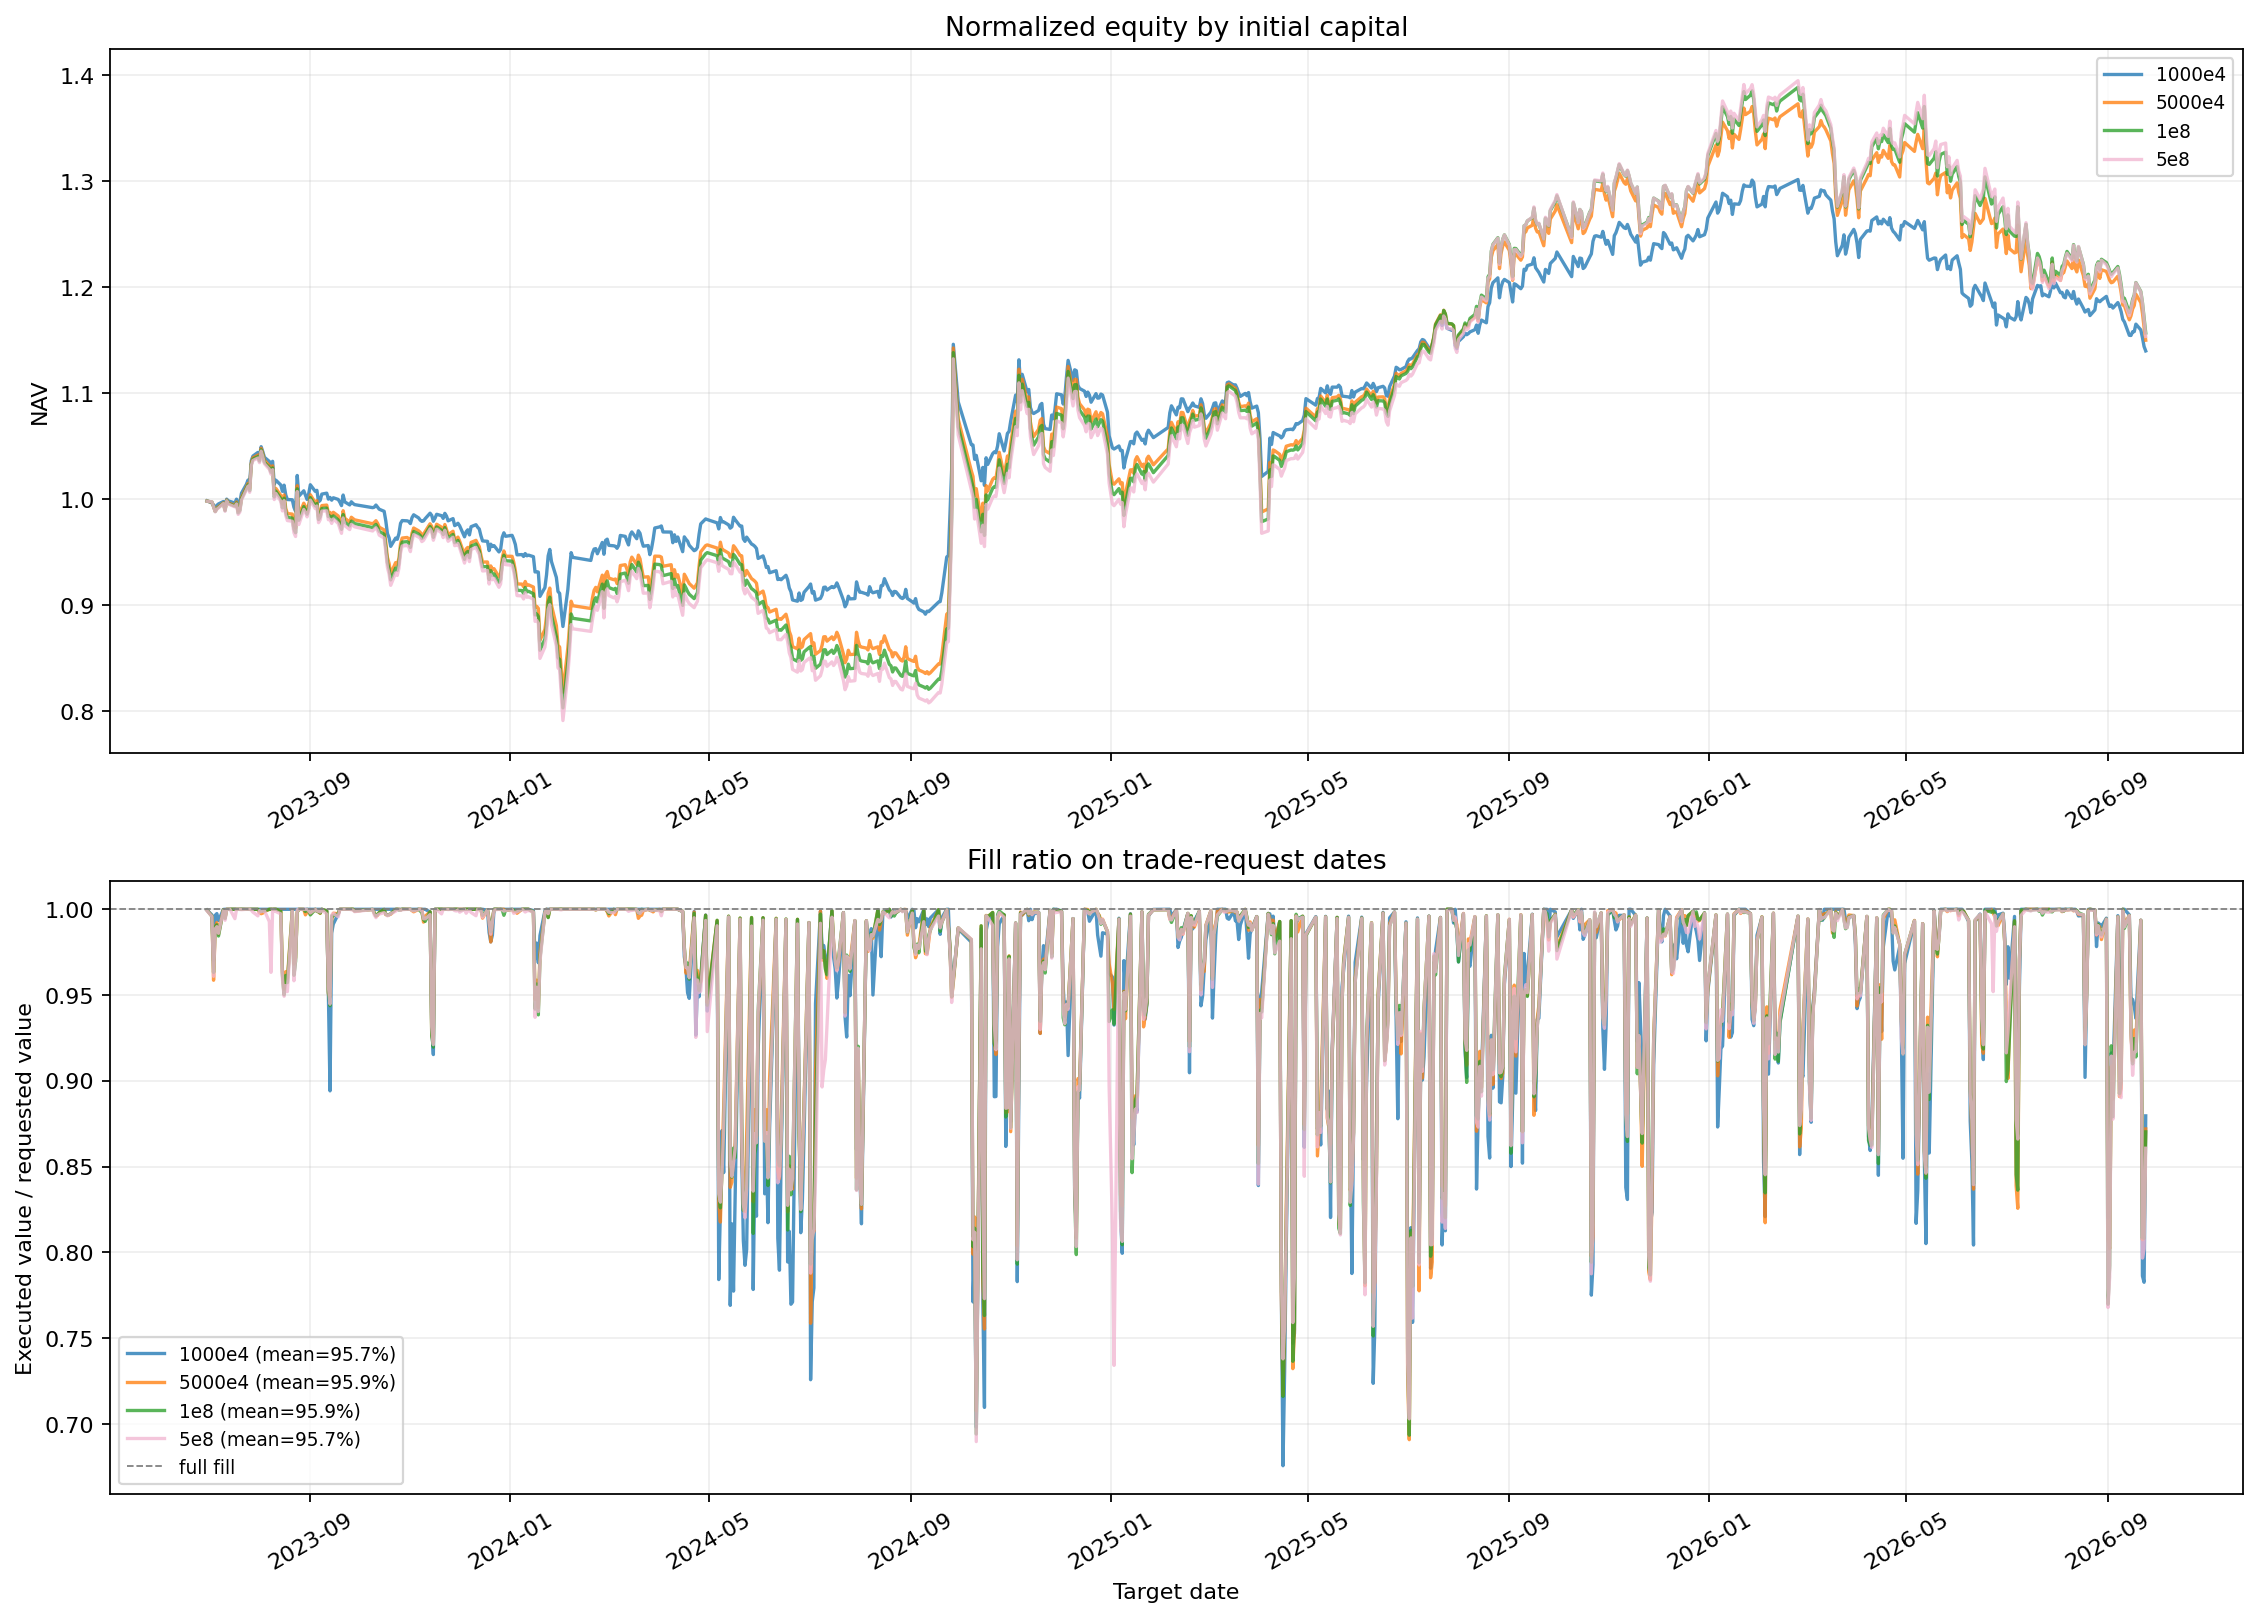
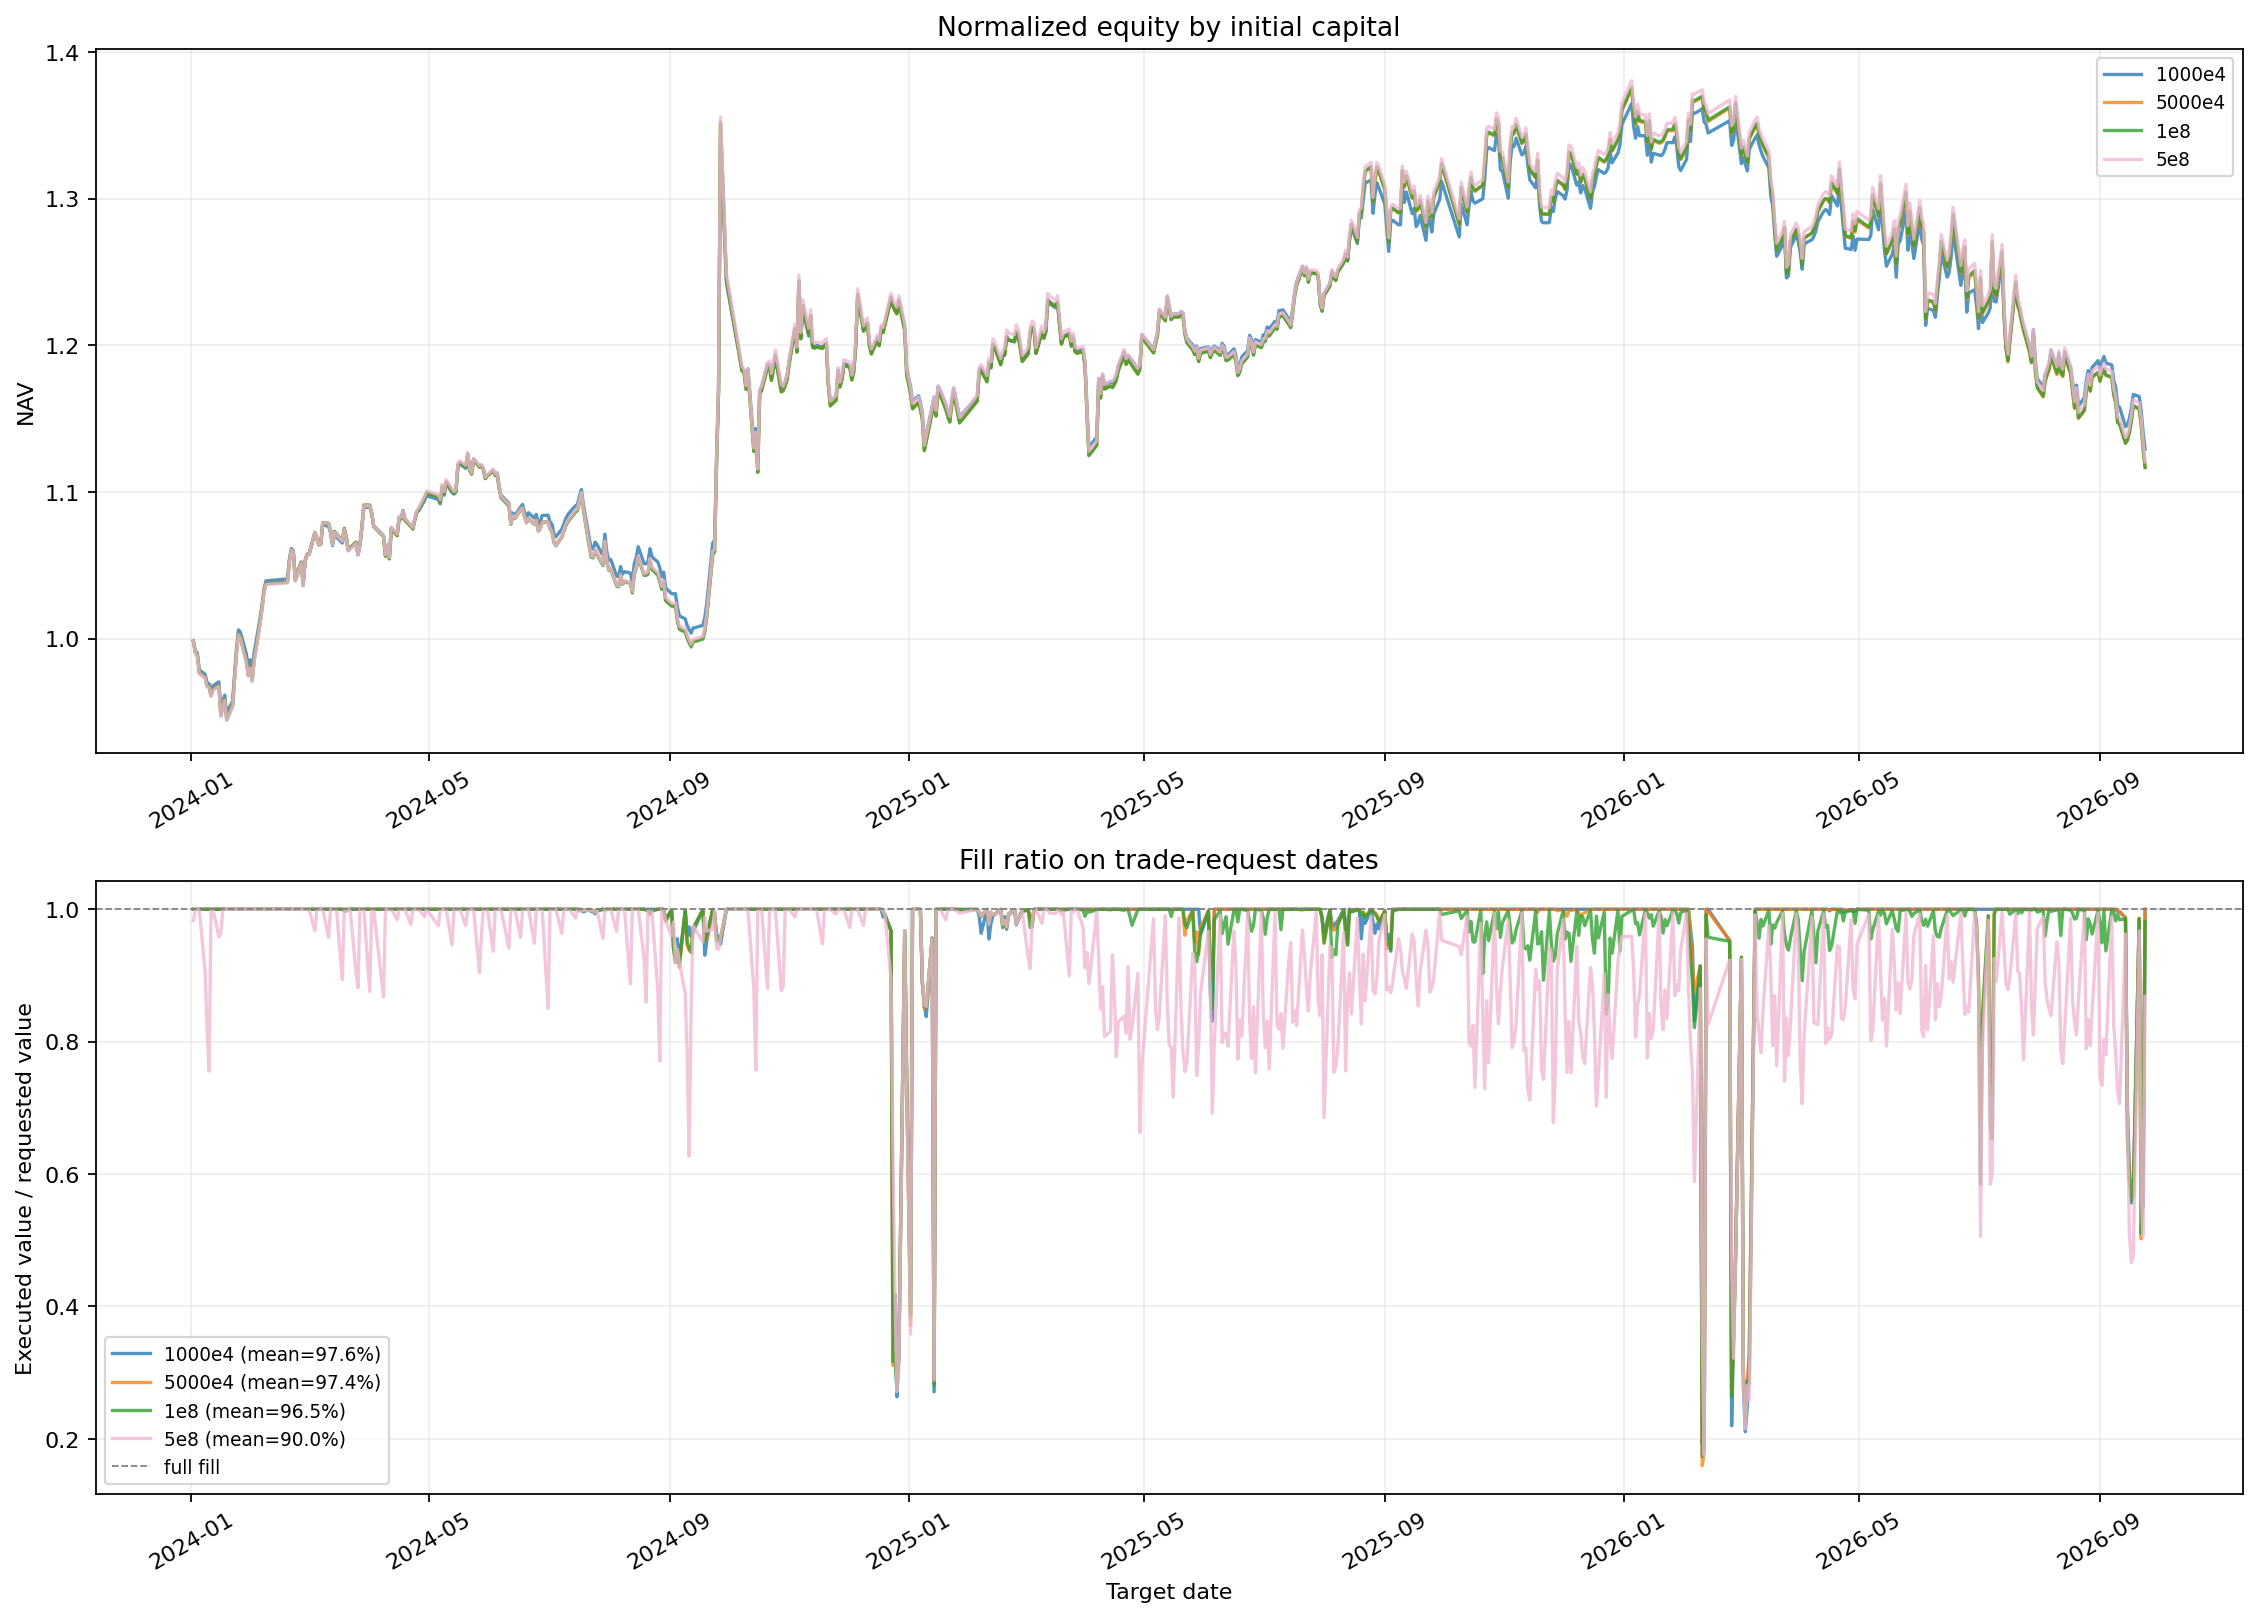
v2

diff --git a/v2/Monitor/dailyupdate/tests/test_workflow.py b/v2/Monitor/dailyupdate/tests/test_workflow.py
@@ -1,6 +1,7 @@
 from pathlib import Path
 from types import SimpleNamespace
 from unittest.mock import Mock
+import warnings
 import tempfile
 import unittest
 
@@ -64,7 +65,73 @@ def make_context(root):
     return MonitorContext(root=root, data=pool, wsd_reader=forbidden, edb_reader=forbidden, industry_map={'a': 0, 'b': 1})
 
 
+class WindFixture:
+    def __call__(self, **kwargs):
+        dates = pd.bdate_range(kwargs['startDate'], kwargs['endDate'])
+        level = 100 if kwargs['indicator'] == 'close' else 25
+        return pd.Series(level + np.arange(len(dates)) / 100, index=dates)
+
+
+def make_full_context(root):
+    """All source interfaces are represented, without remote requests."""
+    c = make_context(root)
+    c.data.fields['m_essentials/amount'] = c.data.fields['d_essentials/amount']
+    c.wsd_reader = WindFixture()
+    c.edb_reader = Mock(return_value=pd.Series(2 + np.arange(len(c.dates)) / 100, index=c.dates))
+    rng = np.random.default_rng(8)
+    mid = np.exp(np.cumsum(rng.normal(0, .001, (150, len(c.ticks))), axis=0)) * 100
+    bid_qty, ask_qty = rng.uniform(1, 100, (2, 5, *mid.shape))
+    quotes = dict(mid=mid, spread=np.full_like(mid, 2), ofi=rng.normal(0, 10, mid.shape),
+                  bid_px=np.tile(mid[None] - .01, (5, 1, 1)), ask_px=np.tile(mid[None] + .01, (5, 1, 1)),
+                  bid_qty=bid_qty, ask_qty=ask_qty, depth=bid_qty.sum(0) + ask_qty.sum(0),
+                  best_imbalance=(bid_qty[0] - ask_qty[0]) / (bid_qty[0] + ask_qty[0]))
+    c.aligned_snapshot = Mock(return_value=quotes)
+    return c
+
+
 class WorkflowTests(unittest.TestCase):
+    def test_incomplete_liquidity_inputs_preserve_missing_output(self):
+        with tempfile.TemporaryDirectory() as root:
+            c = make_context(root)
+            cfg = MonitorConfig(module_options={'risk': {'micro_result': {'相对价差分位': [.1, .2]}}})
+            result = calculate_daily(c.dates[-1], c, names='liquidity_pressure_percentile', config=cfg)
+            self.assertEqual(set(result.name), {'liquidity_pressure_percentile'})
+            self.assertTrue(result[['value', 'percentile']].isna().all().all())
+            c.close()
+
+    def test_every_registered_indicator_calculates_and_writes(self):
+        from v2.Monitor.dailyupdate.dailyupdate import write_daily
+        with tempfile.TemporaryDirectory() as root:
+            c = make_full_context(root)
+            cfg = MonitorConfig(history=20, industries=('a', 'b'))
+            with warnings.catch_warnings():
+                warnings.simplefilter('ignore', RuntimeWarning)
+                result = calculate_daily(c.dates[-1], c, config=cfg)
+            self.assertEqual(set(result['name']), set(INDICATORS))
+            self.assertFalse(result.duplicated(['name', 'domain', 'period']).any())
+            write_daily(c.dates[-1], result, root, c.data.axis.full_dates, config=cfg)
+            files = list((Path(root) / cfg.output_folder).rglob('*.bin'))
+            self.assertGreater(len(files), len(INDICATORS))
+            self.assertTrue(all(path.stat().st_size == 4 * len(c.data.axis.full_dates) for path in files))
+            for name in INDICATORS:
+                row = result.loc[result.name.eq(name)].iloc[0]
+                field = 'percentile' if np.isnan(row.value) else 'value'
+                path = metric_path(root, name, row.domain, row.period, field, cfg)
+                self.assertTrue(path.is_file(), f'{name}: no binary output')
+            c.close()
+
+    def test_every_indicator_can_run_on_its_own(self):
+        with tempfile.TemporaryDirectory() as root:
+            c = make_full_context(root)
+            cfg = MonitorConfig(history=20, industries=('a', 'b'))
+            with warnings.catch_warnings():
+                warnings.simplefilter('ignore', RuntimeWarning)
+                for name in INDICATORS:
+                    with self.subTest(name=name):
+                        result = calculate_daily(c.dates[-1], c, names=name, config=cfg)
+                        self.assertEqual(set(result['name']), {name})
+            c.close()
+
     def test_window_variants_share_one_function_and_one_context(self):
         import inspect
         from v2.Monitor.dailyupdate import context as context_module

diff --git a/v2/Monitor/dailyupdate/dailyupdate.py b/v2/Monitor/dailyupdate/dailyupdate.py
@@ -578,9 +578,10 @@ class RiskMonitor:
                              "历史分位": _p(x.to_numpy(), history)})
         if micro_result is not None and (metrics is None or "流动性压力历史分位" in metrics):
             required = ("相对价差分位", "深度下降分位", "Amihud分位")
+            v, h = np.nan, np.nan
             if all(k in micro_result for k in required):
                 v,h=liquidity_pressure_percentile(*(micro_result[k] for k in required), history)
-                rows.append({"指标":"流动性压力历史分位","域":"全市场","周期":1,"数值":v,"历史分位":h})
+            rows.append({"指标":"流动性压力历史分位","域":"全市场","周期":1,"数值":v,"历史分位":h})
         elif metrics is not None and "流动性压力历史分位" in metrics:
             # 未注入三个压力分量时显式保留缺失，不将旧值误当成今日计算结果。
             rows.append({"指标":"流动性压力历史分位","域":"全市场","周期":1,"数值":np.nan,"历史分位":np.nan})

diff --git a/v2/Backtest/singleFactor/example_usage.py b/v2/Backtest/singleFactor/example_usage.py
@@ -291,8 +291,8 @@ if __name__ == "__main__":
     ROOT_PATH = Path("Z:/") if Path("Z:/axis/dates.npy").is_file() else ROOT
     START_DATE = "2024-01-01"
     END_DATE = "2026-09-27"
-    UNIVERSE = 'zzfull'
-    FACTOR_NAME = "bayeslowvol_onset"    # ("extra_large_attention", "main_force_control", "sentiment_instability", "vm_diff",)
+    UNIVERSE = 'hs300'
+    FACTOR_NAME = "bayeshighvol_onset"    # ("extra_large_attention", "main_force_control", "sentiment_instability", "vm_diff",)
     CALCULATE_FACTOR = False  # False reuses the existing factor matrix.
     FACTOR_CONTEXT_KWARGS = None  # e.g. {"config": {"lookback_days": 20}}
     SIGNAL_LAG = 2

diff --git a/v2/Monitor/dailyupdate/config.py b/v2/Monitor/dailyupdate/config.py
@@ -63,6 +63,7 @@ DEFAULT_SERIES = {
 INDEX_DOMAINS = ("沪深300", "中证500", "中证1000", "中证2000")
 
 STYLE_DOMAINS = tuple(f"barra{i}" for i in range(1, 11))
+ALL_DOMAINS = ('全市场',) + INDEX_DOMAINS + STYLE_DOMAINS + tuple(INDUSTRY_MAP)
 
 DECAY_HORIZONS = (1, 5, 15, 30)
 

diff --git a/v2/Monitor/dailyupdate/README.md b/v2/Monitor/dailyupdate/README.md
@@ -52,6 +52,11 @@ finally:
 ```
 
 `names=None` 表示全部已注册指标；`modules=('style', 'risk')` 可按模块筛选。
+原面板输出的注册覆盖：macro 11、micro 24、moneyflow 8、style 15、risk 15，共73项。
+这里统计指标及窗口变体，不是将每个域、每个周期展开后的文件数量。
+`domains` 默认只计算全市场；如需原面板支持的全部域，可从config导入 `ALL_DOMAINS`，
+使用 `MonitorConfig(domains=ALL_DOMAINS)`。各指标仍按其原有域限制筛选，不会为不适用域构造数值。
+风格模块的指数池由universes控制，行业池由industries控制。
 `calculate_daily(...)` 只计算、不保存。结果列统一为：
 `name, module, domain, period, value, percentile`。
 仅提供分位的指标，其 `value` 为NaN；这不代表额外计算了未定义的原始值。
@@ -104,6 +109,8 @@ path = metric_path(ROOT, 'rv20', '全市场', 1, 'value')
 资金流大小单占比、信用脉冲GDP插值等也保留旧口径。
 宏观数据按观测日期截断不能消除发布时间差异和历史修订，尚不等于严格的PIT回测数据。
 风险IV接口保留原字段与参数，需由实际数据服务支持，不会静默替换为其他价格口径。
+原代码中的 `liquidity_coverage`（需要委托需求额）、`index_eps_bond_spread` 等独立工具函数
+没有在原snapshot中形成独立输出，本次仍作为utils兼容函数保留，不计入上述73项每日指标。
 
 ## 验证
 
@@ -113,3 +120,5 @@ python -m unittest v2.Monitor.dailyupdate.tests.test_workflow
 
 另已对重构前后的五类面板使用同一模拟输入逐表验证（含缺失值），计算一致；
 实际本地成长价值、大小盘、RV20的两个交易日更新与读取也已验证。
+覆盖测试还逐项调用全部73项指标，检查全量结果和二进制输出；模拟测试允许依赖缺失时输出NaN，
+不代表外部EDB/WSD及L2源已全部通过真实数据验证。
